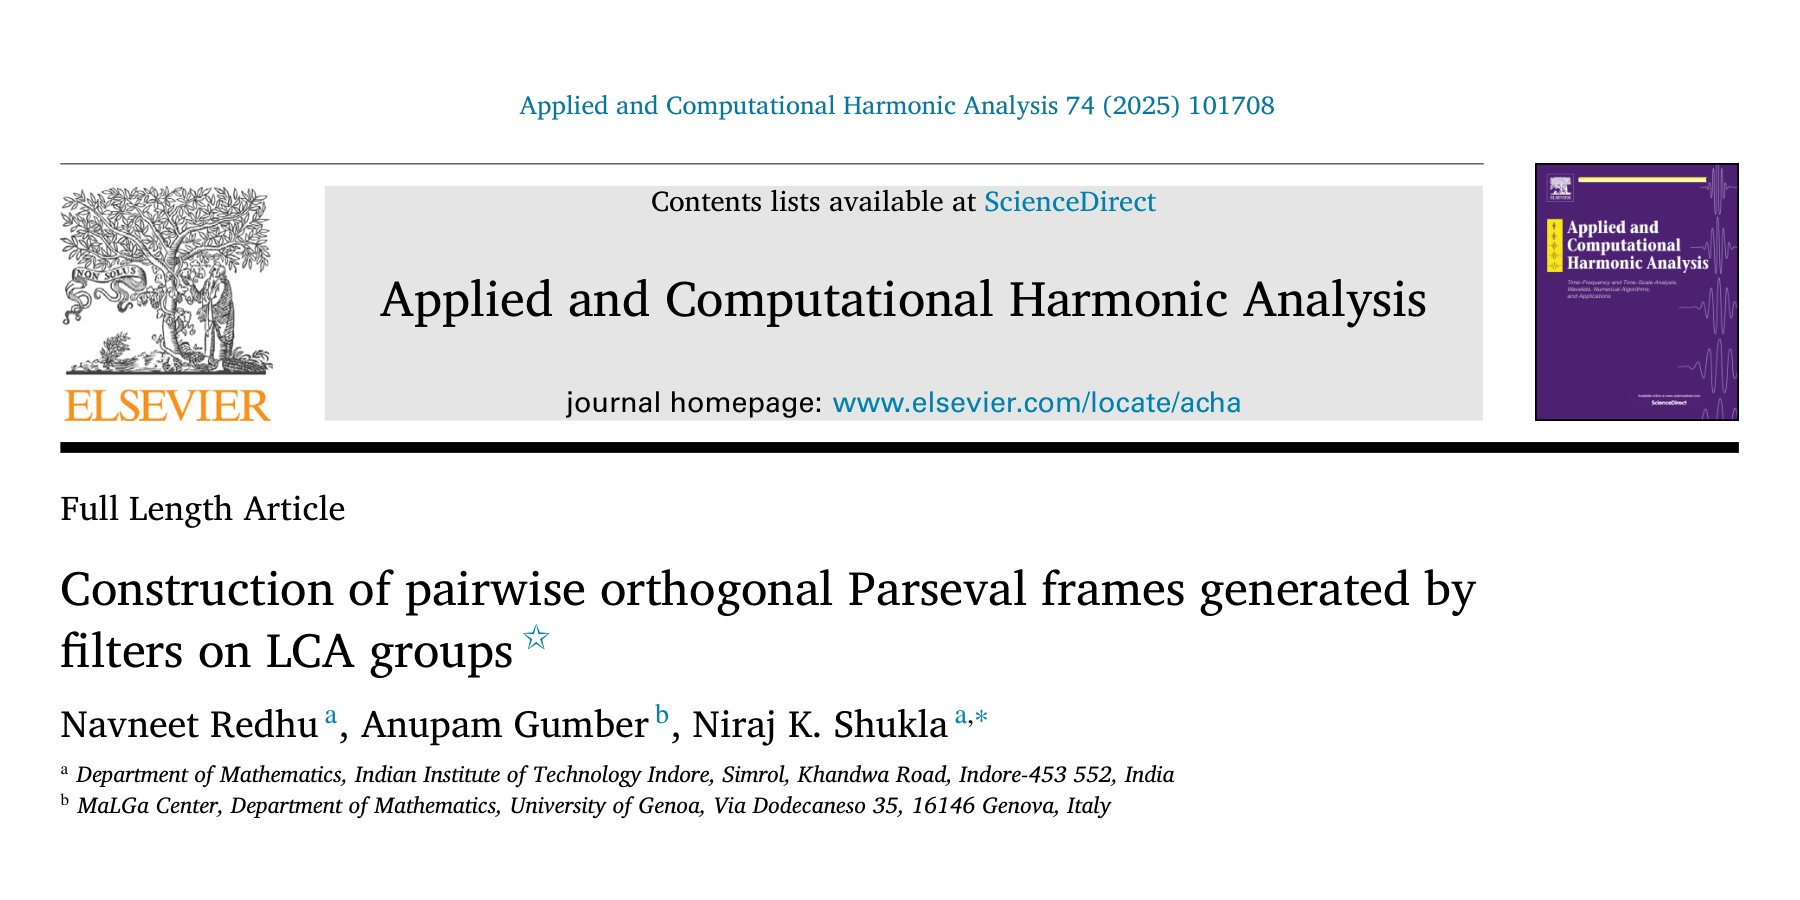
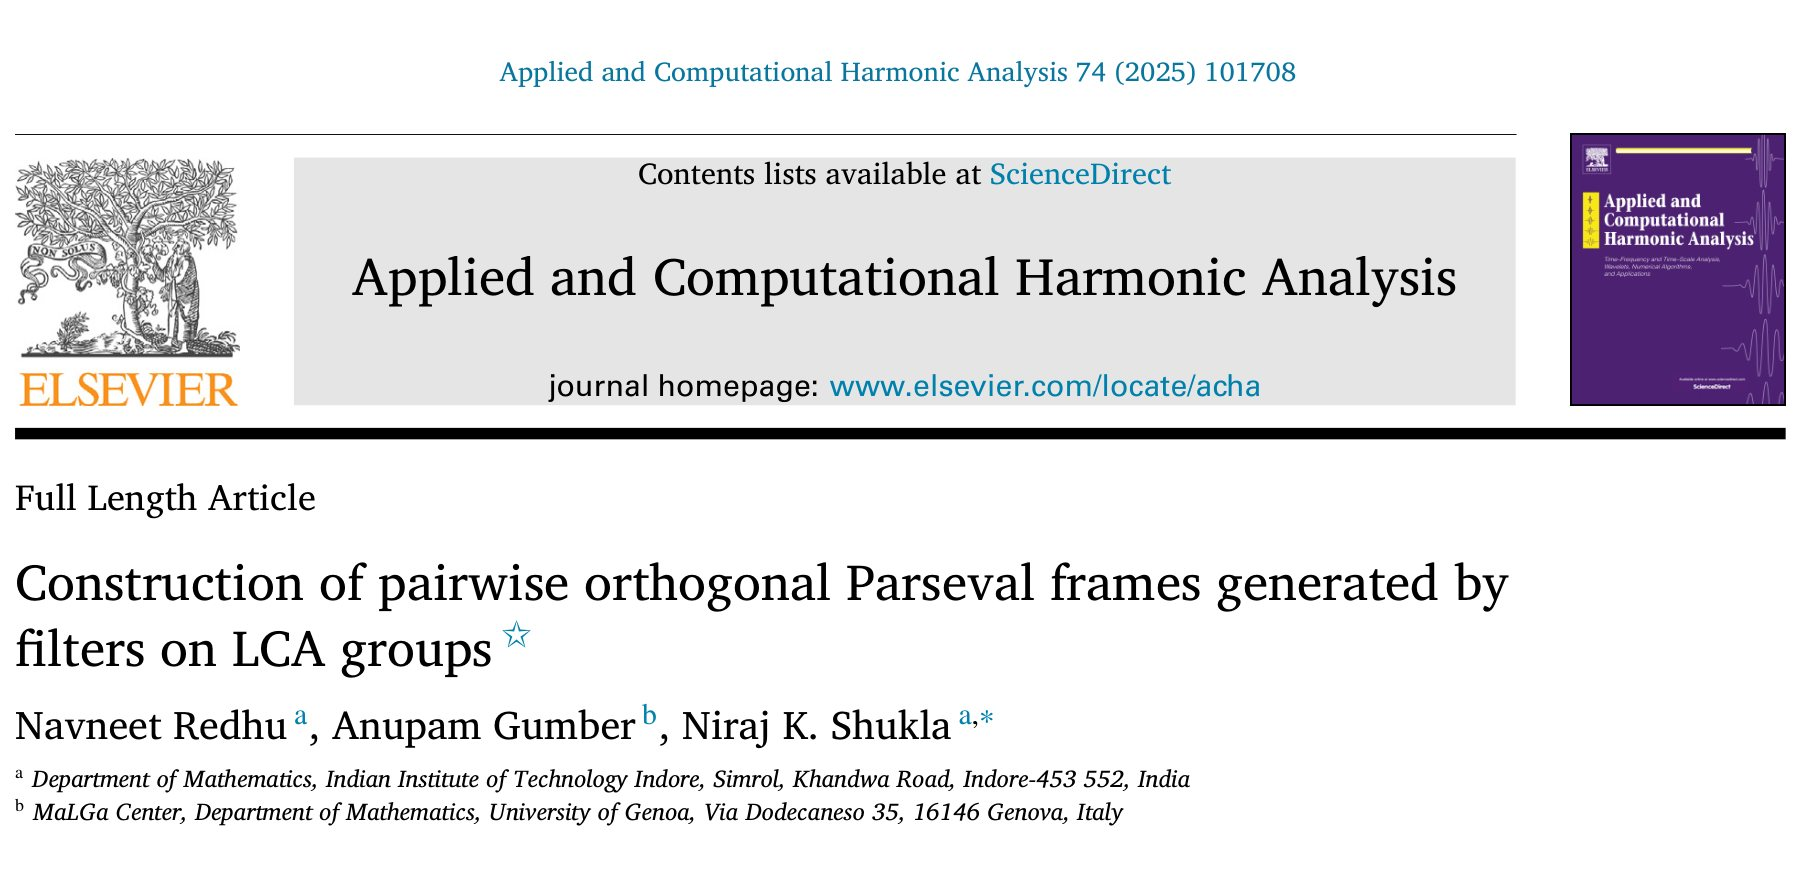
Add files via upload

Changed region(s): [[0.0, 0.0616, 0.9956, 0.5234], [0.0, 0.6157, 0.84, 0.9544], [0.0, 0.5542, 0.1867, 0.5849]]

diff --git a/index.html b/index.html
@@ -196,8 +196,8 @@
           <p class="info-card-title" id="featured-title"><svg viewBox="0 0 24 24" width="20" height="20" fill="currentColor" aria-hidden="true"><path d="M19 1l-5 5v11l5-4.5V1zM1 6v14.65c0 .25.25.5.5.5.1 0 .15-.05.25-.05C3.1 20.45 5.05 20 6.5 20c1.95 0 4.05.4 5.5 1.5V6c-1.45-1.1-3.55-1.5-5.5-1.5S2.45 4.9 1 6zm22 13.5V6c-.6-.45-1.25-.75-2-1v13.5c-1.1-.35-2.3-.5-3.5-.5-1.7 0-4.15.65-5.5 1.5v2c1.35-.85 3.8-1.5 5.5-1.5 1.65 0 3.35.3 4.75 1.05.1.05.15.05.25.05.25 0 .5-.25.5-.5v-1.1z"/></svg>Featured publications</p>
           <div class="featured-viewport">
             <div class="featured-track">
-              <a class="featured-slide" href="https://doi.org/10.1016/j.laa.2025.08.016" target="_blank" rel="noreferrer" aria-roledescription="slide" aria-label="1 of 2: Cyclic frames in finite-dimensional Hilbert spaces, Linear Algebra and its Applications, 2026"><img loading="lazy" src="featured-laa.jpg" width="1800" height="900" alt="Article header: Cyclic frames in finite-dimensional Hilbert spaces, by Ole Christensen, Navneet Redhu and Niraj K. Shukla, Linear Algebra and its Applications 728 (2026) 63–81"><span class="featured-read">Read the paper <span aria-hidden="true">↗</span></span></a>
-              <a class="featured-slide" href="https://doi.org/10.1016/j.acha.2024.101708" target="_blank" rel="noreferrer" aria-roledescription="slide" aria-label="2 of 2: Construction of pairwise orthogonal Parseval frames generated by filters on LCA groups, Applied and Computational Harmonic Analysis, 2025"><img loading="lazy" src="featured-acha.jpg" width="1800" height="900" alt="Article header: Construction of pairwise orthogonal Parseval frames generated by filters on LCA groups, by Navneet Redhu, Anupam Gumber and Niraj K. Shukla, Applied and Computational Harmonic Analysis 74 (2025) 101708"><span class="featured-read">Read the paper <span aria-hidden="true">↗</span></span></a>
+              <a class="featured-slide" href="https://doi.org/10.1016/j.acha.2024.101708" target="_blank" rel="noreferrer" aria-roledescription="slide" aria-label="1 of 2: Construction of pairwise orthogonal Parseval frames generated by filters on LCA groups, Applied and Computational Harmonic Analysis, 2025"><img loading="lazy" src="featured-acha.jpg" width="1800" height="877" alt="Article header: Construction of pairwise orthogonal Parseval frames generated by filters on LCA groups, by Navneet Redhu, Anupam Gumber and Niraj K. Shukla, Applied and Computational Harmonic Analysis 74 (2025) 101708"></a>
+              <a class="featured-slide" href="https://doi.org/10.1016/j.laa.2025.08.016" target="_blank" rel="noreferrer" aria-roledescription="slide" aria-label="2 of 2: Cyclic frames in finite-dimensional Hilbert spaces, Linear Algebra and its Applications, 2026"><img loading="lazy" src="featured-laa.jpg" width="1800" height="877" alt="Article header: Cyclic frames in finite-dimensional Hilbert spaces, by Ole Christensen, Navneet Redhu and Niraj K. Shukla, Linear Algebra and its Applications 728 (2026) 63–81"></a>
             </div>
             <button class="featured-btn featured-prev" type="button" aria-label="Previous publication"><svg viewBox="0 0 24 24" width="22" height="22" fill="none" stroke="currentColor" stroke-width="2.4" stroke-linecap="round" stroke-linejoin="round" aria-hidden="true"><path d="M15 5l-7 7 7 7"/></svg></button>
             <button class="featured-btn featured-next" type="button" aria-label="Next publication"><svg viewBox="0 0 24 24" width="22" height="22" fill="none" stroke="currentColor" stroke-width="2.4" stroke-linecap="round" stroke-linejoin="round" aria-hidden="true"><path d="M9 5l7 7-7 7"/></svg></button>

diff --git a/styles.css b/styles.css
@@ -133,22 +133,21 @@ em { color: var(--accent); font-style: italic; }
 .figure-a { grid-area: fig-a; }
 .figure-b { grid-area: fig-b; }
 .featured-card { grid-area: featured; margin-top: 10px; } /* article headers of the key papers, as on the IIT Indore lab home page */
-.featured-viewport { position: relative; padding: 20px 72px 4px; }
+.featured-viewport { position: relative; padding: 16px 72px 0; }
 .featured-track { display: flex; overflow-x: auto; scroll-snap-type: x mandatory; scrollbar-width: none; } /* swipe and trackpad scrolling come free; script.js drives the arrows and dots */
 .featured-track::-webkit-scrollbar { display: none; }
-.featured-slide { flex: 0 0 100%; display: grid; justify-items: center; gap: 10px; scroll-snap-align: center; }
+.featured-slide { flex: 0 0 100%; display: grid; justify-items: center; scroll-snap-align: center; }
 .featured-slide img { display: block; width: 100%; max-width: 860px; height: auto; border: 1px solid #e6e9eb; border-radius: 8px; background: #fff; transition: box-shadow .2s ease; }
 .featured-slide:hover img, .featured-slide:focus-visible img { box-shadow: 0 10px 24px rgba(17,43,58,.12); }
 .featured-slide:focus-visible { outline: none; }
-.featured-read { color: var(--accent); font-size: .82rem; font-weight: 600; }
-.featured-btn { position: absolute; top: calc(50% - 8px); transform: translateY(-50%); display: grid; place-items: center; width: 44px; height: 44px; padding: 0; border: 1px solid rgba(15,111,104,.28); border-radius: 50%; background: #fff; color: var(--accent); cursor: pointer; transition: background .2s ease, border-color .2s ease, color .2s ease; }
+.featured-btn { position: absolute; top: calc(50% + 8px); transform: translateY(-50%); display: grid; place-items: center; width: 44px; height: 44px; padding: 0; border: 1px solid rgba(15,111,104,.28); border-radius: 50%; background: #fff; color: var(--accent); cursor: pointer; transition: background .2s ease, border-color .2s ease, color .2s ease; }
 .featured-prev { left: 16px; }
 .featured-next { right: 16px; }
 .featured-btn:hover, .featured-btn:focus-visible { background: var(--accent); border-color: var(--accent); color: #fff; outline: none; }
-.featured-dots { display: flex; justify-content: center; gap: 10px; padding: 10px 0 20px; }
+.featured-dots { display: flex; justify-content: center; gap: 10px; padding: 14px 0 18px; }
 .featured-dots button { width: 10px; height: 10px; padding: 0; border: 1.5px solid var(--accent); border-radius: 50%; background: transparent; cursor: pointer; transition: background .2s ease; }
 .featured-dots button[aria-current="true"] { background: var(--accent); }
-@media (max-width: 760px) { .featured-viewport { padding: 16px 16px 4px; } .featured-btn { display: none; } } /* phones swipe; the dots still work */
+@media (max-width: 760px) { .featured-viewport { padding: 14px 14px 0; } .featured-btn { display: none; } } /* phones swipe; the dots still work */
 .figure-card picture { display: block; }
 .figure-card img { display: block; width: 100%; height: auto; padding: 10px 0 2px; box-sizing: border-box; background: #fff; }
 .figure-note { margin: 0; padding: 0 22px 16px; color: var(--muted); font-size: .82rem; line-height: 1.5; }
